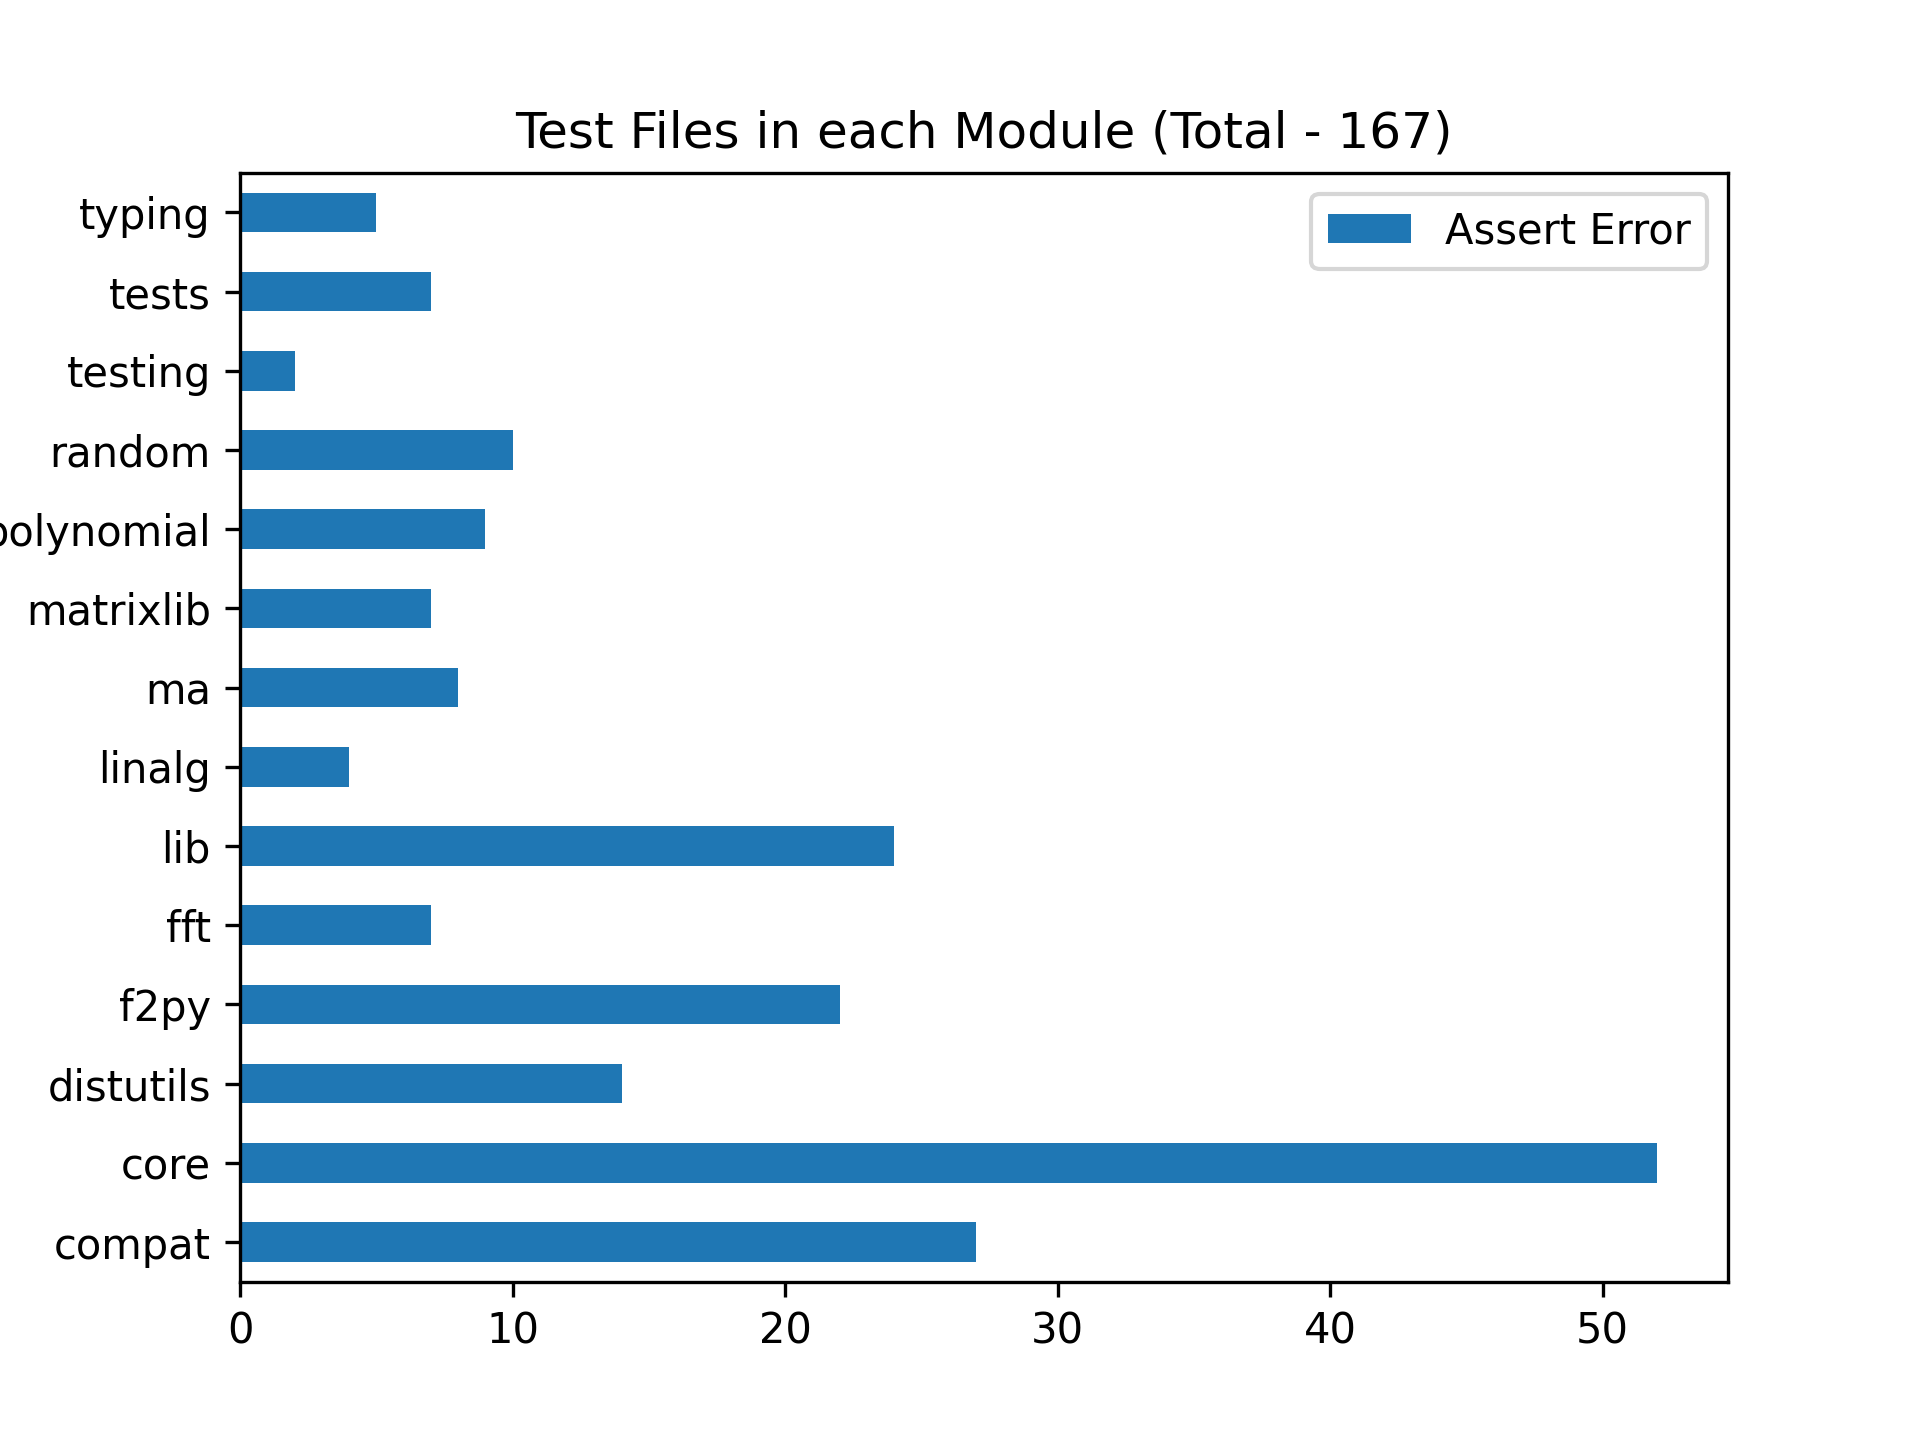
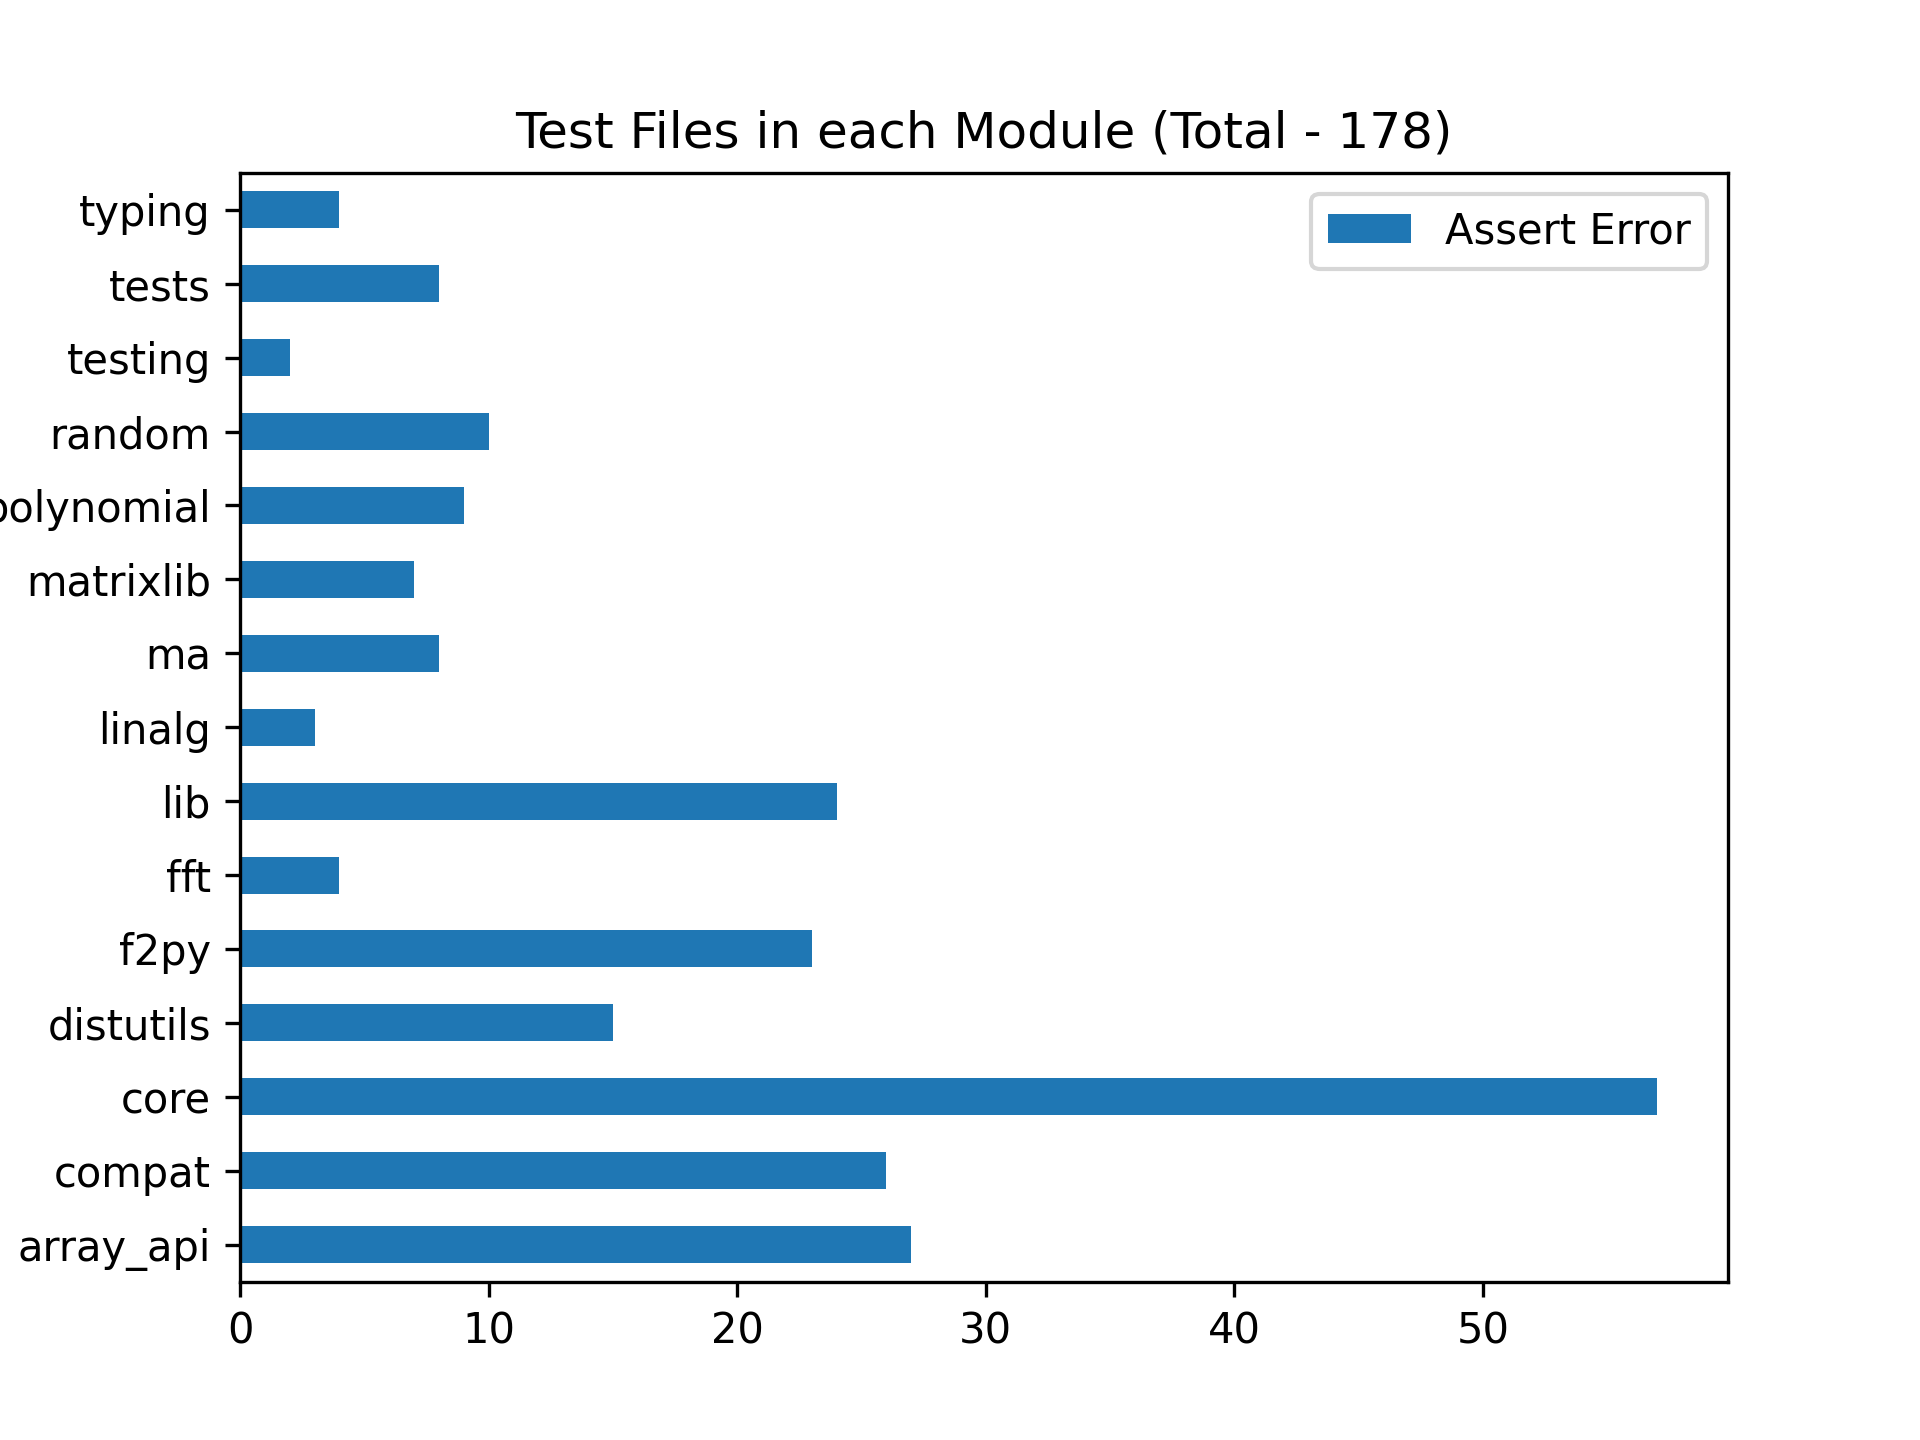
Task31Done

diff --git a/AssertLocAndCountInProduction.py b/AssertLocAndCountInProduction.py
@@ -12,7 +12,7 @@ def getListOfFiles(dirName):
         fullPath = os.path.join(dirName, entry)
         if os.path.isdir(fullPath):
             allFiles = allFiles + getListOfFiles(fullPath)
-        elif entry.find(".py") > 0:
+        elif entry.endswith(".py") > 0:
             allFiles.append(fullPath)
     return allFiles
 
@@ -72,7 +72,7 @@ def writeToCSV():
         writer = csv.writer(csv_file)
         writer.writerow(header)
         for key, value in assertCountDictInProd.items():
-            module = re.findall("^[A-Za-z-]+\/[a-z]+\/([a-z_0-9]+)", key)
+            module = re.findall("^[A-Za-z-]+\/([a-z_0-9]+)", key)
             fileName = key[key.rfind("/") + 1:]
             loactionList = value['assertCountAndLoc'][1]
             loactionInStrFormat = ','.join(str(e) for e in loactionList)
@@ -80,4 +80,5 @@ def writeToCSV():
                 writer.writerow([key, module[0], fileName, loactionInStrFormat, value['assertCountAndLoc'][0]])
 
 
-dirName = 'numpy-production/numpy'
+dirName = 'numpy-updated-production-code'
+
